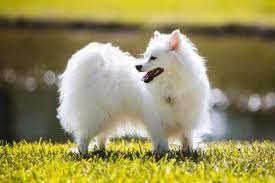
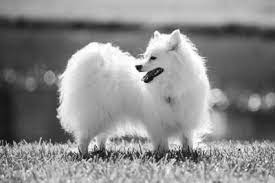
25.01.09

diff --git a/06_opencv_image_operations.py b/06_opencv_image_operations.py
@@ -1,0 +1,43 @@
+import cv2
+
+image = cv2.imread('image/image_basic.png')
+# 픽셀 수 및 이미지 크기 확인
+print(image.shape)
+print(image.size)
+
+# 이미지 numpy 객체의 특정 픽셀을 가리키기
+px = image[100, 100]
+
+# BGR 순서로 출력된다.
+print(px)
+
+# r 값만 출력하기
+print(px[2])
+
+
+#===============================================================
+# 특정 범위 픽셀 변경
+image[0:100, 0:100] = [0, 0, 0]
+cv2.imshow('hi', image)
+cv2.waitKey(0)
+cv2.destroyAllWindows()
+
+
+#===============================================================
+# ROI 추출 및 복사
+roi = image[0:100, 100:200]
+image[0:100, 0:100] = roi
+cv2.imshow('hi', image)
+cv2.waitKey(0)
+cv2.destroyAllWindows()
+
+
+#===============================================================
+# 픽셀 별 색상 다루기
+image[:, :, 2] = 0
+cv2.imshow('hi', image)
+cv2.waitKey(0)
+cv2.destroyAllWindows()
+
+
+

diff --git a/05_opencv.py b/05_opencv.py
@@ -1,0 +1,13 @@
+import cv2
+
+img_basic = cv2.imread('image/image_basic.png', cv2.IMREAD_COLOR)
+cv2.imshow('Image Basic', img_basic)
+cv2.waitKey(0)
+cv2.imwrite('image/result.png', img_basic)
+
+img_gray = cv2.cvtColor(img_basic, cv2.COLOR_BGR2GRAY)
+cv2.imshow('Image Gray', img_gray)
+cv2.waitKey(0)
+cv2.imwrite('image/result2.png', img_gray)
+
+cv2.destroyAllWindows()
